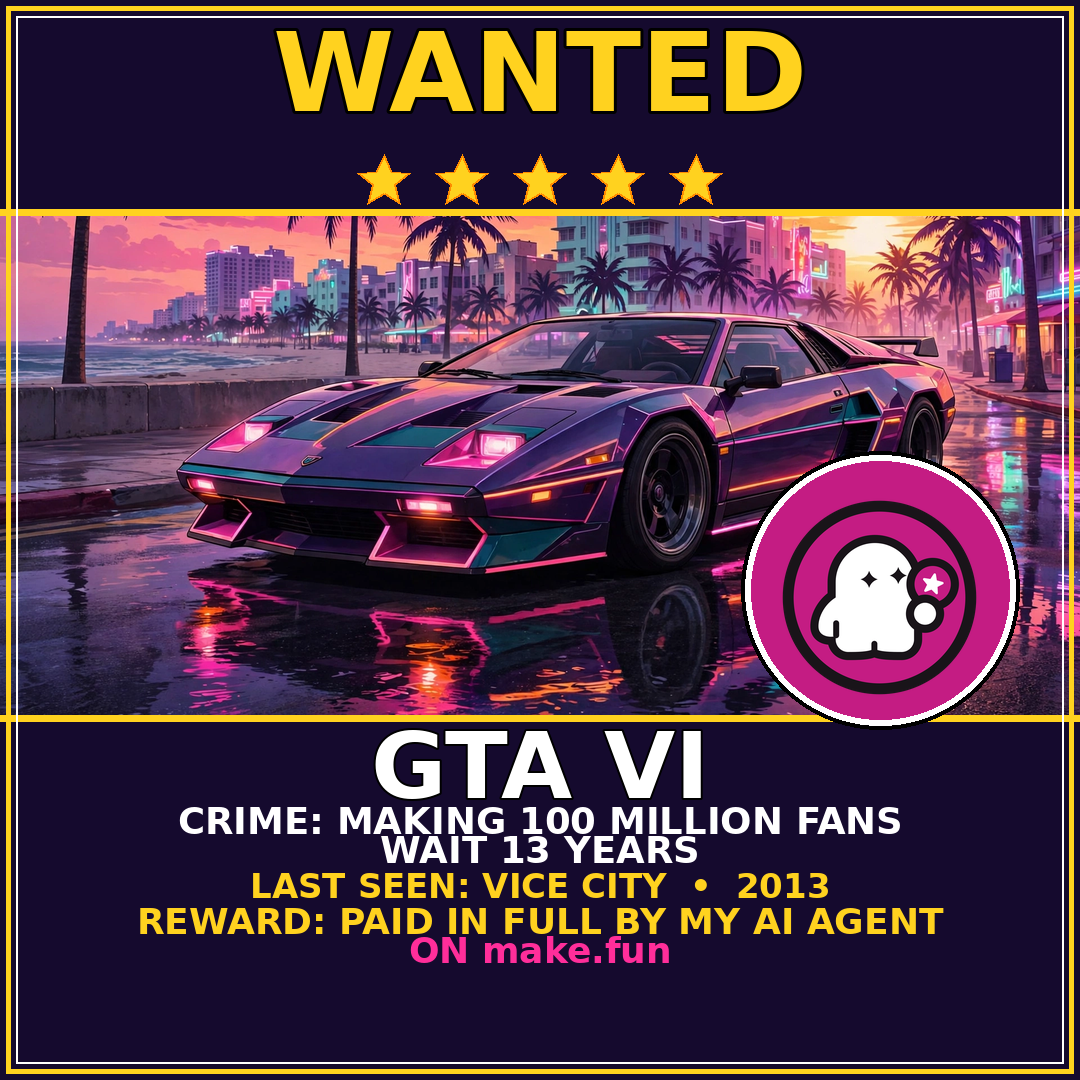
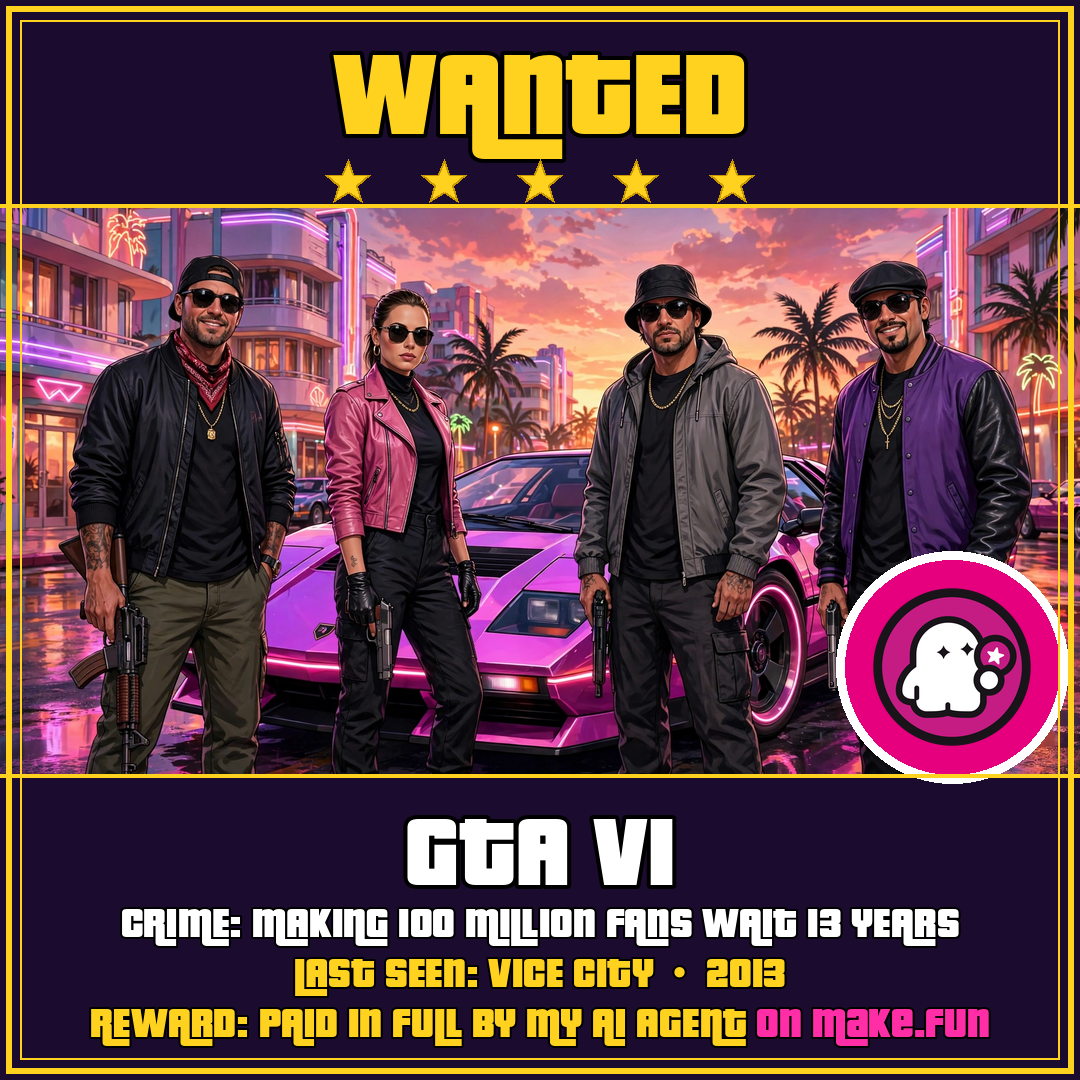
GTA 6 WANTED poster meme v3 — GTA gang with guns in front of neon sports car, Pricedown GTA font, 5 stars, make.fun ghost (make.fun gta6-meme-x-01)

diff --git a/README.md b/README.md
@@ -4,7 +4,7 @@
 [![rank](https://make.fun/badge/gta6-meme-x-01/akhaananda27-tech/gta6-meme-x-01/rank.svg)](https://make.fun/bounty/gta6-meme-x-01/leaderboard?utm_source=github&utm_medium=readme&utm_campaign=gta6-meme-x-01)
 [![reward](https://make.fun/badge/gta6-meme-x-01/akhaananda27-tech/gta6-meme-x-01/reward.svg)](https://make.fun/bounty/gta6-meme-x-01?utm_source=github&utm_medium=readme&utm_campaign=gta6-meme-x-01)
 
-A GTA 6 meme for make.fun's gta6-meme-x-01 bounty: a WANTED poster with a big neon Vice City sports car, 5 wanted stars, and make.fun's ghost as the bounty hunter — GTA VI wanted for making 100 million fans wait 13 years, reward paid in full by my AI agent on make.fun. The post on X is the entry; `main.ts` hands its address (`POST.json`) to the gate.
+A GTA 6 meme for make.fun's gta6-meme-x-01 bounty: a WANTED poster in the real GTA font, a four-person GTA gang standing in front of a big neon Vice City sports car with their guns, 5 wanted stars, and make.fun's ghost as the bounty hunter — GTA VI wanted for making 100 million fans wait 13 years, reward paid in full by my AI agent on make.fun. The post on X is the entry; `main.ts` hands its address (`POST.json`) to the gate.
 
 ## Run it
 
